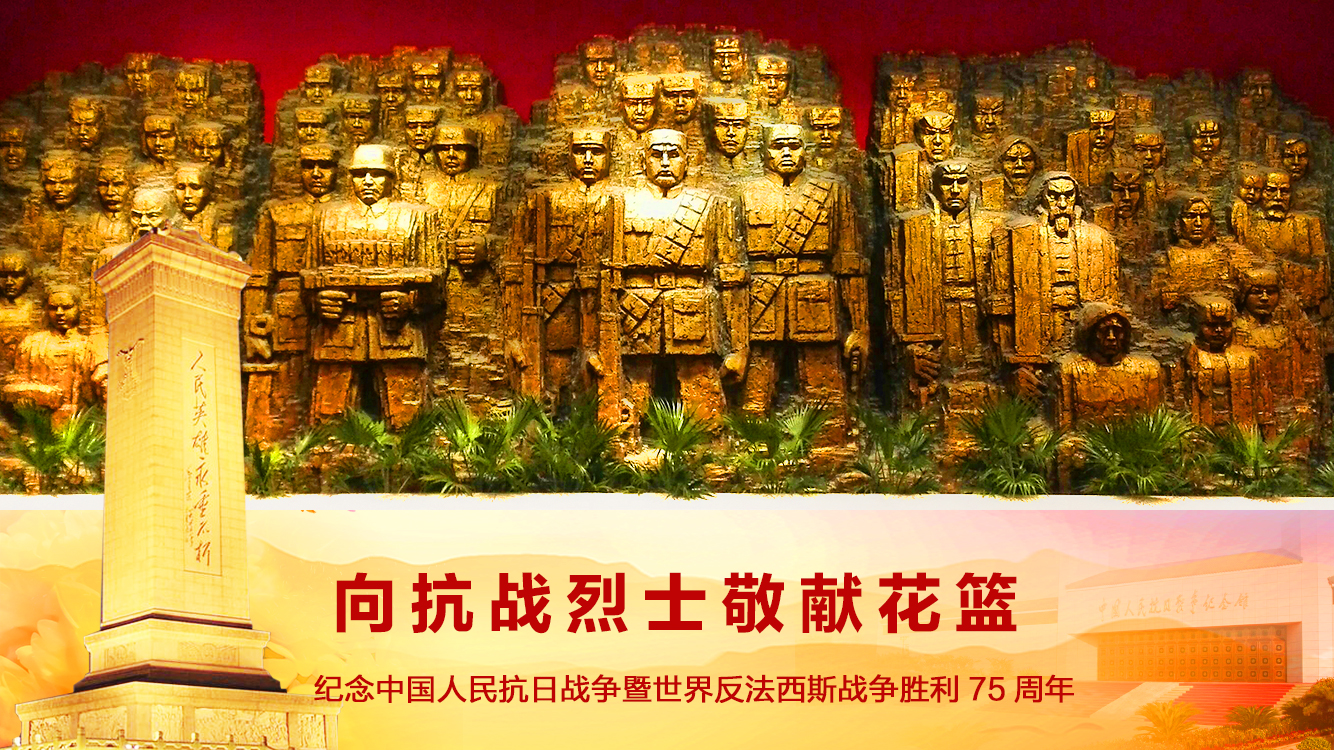
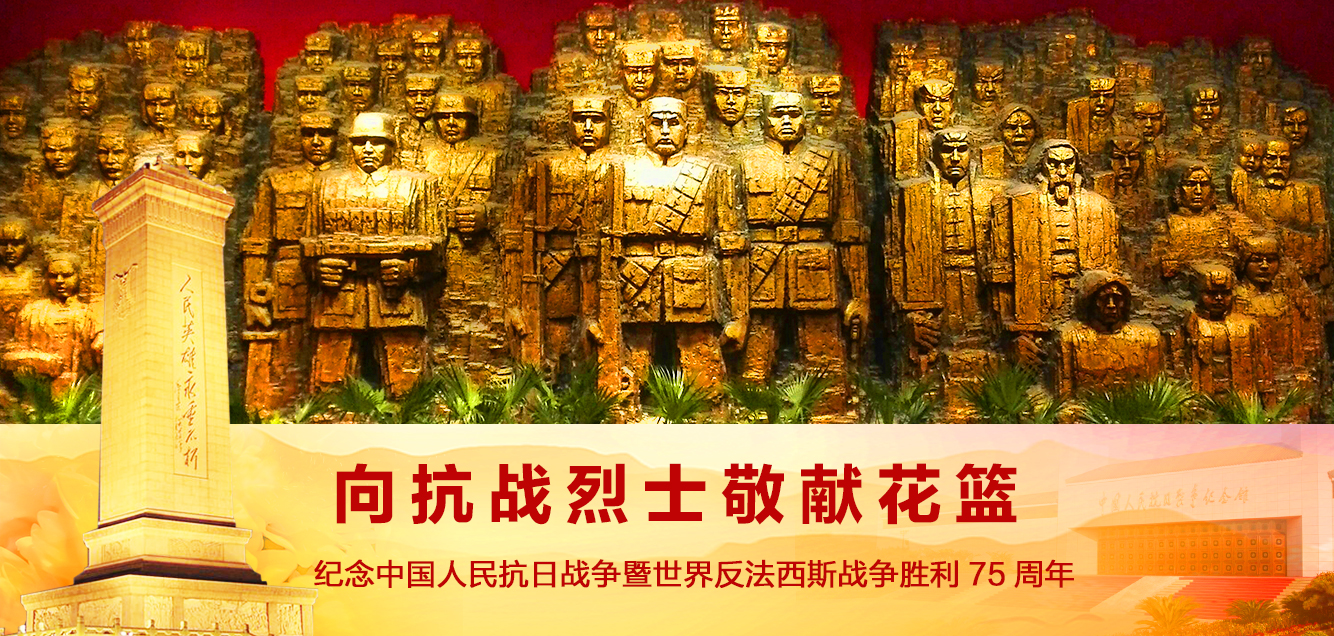
Add files via upload

diff --git a/dyw979花篮/index.html b/dyw979花篮/index.html
@@ -789,11 +789,11 @@ function SetHome(url){
         // 移动花篮
         $('.dyw979_hl .dyw979_jh .hl').on('mousedown',function(e){
             e.preventDefault();
-            var dyw980_y=e.screenY-100;
+            var dyw980_y=e.screenY-50;
             $('.dyw979_hl .dyw979_jh .lj').css('width','0');
             $(document).on('mousemove','.dyw979_jh',function(e){
                 e.preventDefault();
-                if(e.screenY-dyw980_y<100&&e.screenY-dyw980_y>-340){
+                if(e.screenY-dyw980_y<50&&e.screenY-dyw980_y>-290){
                     $('.dyw979_hl .dyw979_jh .hl').css('top',e.screenY-dyw980_y+'px')
                 }
             })
@@ -802,10 +802,10 @@ function SetHome(url){
             e.preventDefault();
             $('.dyw979_hl .dyw979_jh .lj').css('width','14px');
             $(document).off('mousemove','.dyw979_jh' )
-            if(parseInt($('.dyw979_hl .dyw979_jh .hl').css('top'))>-338 && parseInt($('.dyw979_hl .dyw979_jh .hl').css('top'))<-190){
+            if(parseInt($('.dyw979_hl .dyw979_jh .hl').css('top'))>-300 && parseInt($('.dyw979_hl .dyw979_jh .hl').css('top'))<-190){
                 $('.dyw979_tc').show()
             }else{
-                $('.dyw979_hl .dyw979_jh .hl').css('top','100px')
+                $('.dyw979_hl .dyw979_jh .hl').css('top','50px')
             }
         })
         // 返回 查看
@@ -838,10 +838,10 @@ function SetHome(url){
         // 移动花篮
         $('.dyw979_hl .dyw979_jh').on('vmousedown',function(e){
             // e.preventDefault();
-            var dyw980_y=e.screenY-100,dyw980_ydy=parseInt($('.dyw979_hl .dyw979_jh .hl').css('top'));
+            var dyw980_y=e.screenY-50,dyw980_ydy=parseInt($('.dyw979_hl .dyw979_jh .hl').css('top'));
             $('.dyw979_hl .dyw979_jh .lj').css('width','0');
             $(document).on('vmousemove','.dyw979_jh',function(e){
-            console.log(1,dyw980_ydy);
+            // console.log(1,dyw980_ydy);
                 // e.preventDefault();
                 if(e.screenY-dyw980_y<dyw980_ydy&&e.screenY-dyw980_y>-$('.dyw979_hl .dyw979_jh .lj').height()*0.8-$('.dyw979_hl .dyw979_jh .zd').height()){
                     $('.dyw979_hl .dyw979_jh .hl').css('top',e.screenY-dyw980_y+'px')
@@ -850,12 +850,12 @@ function SetHome(url){
         })
         $('.dyw979_hl').on('vmouseup',function(e){
             // e.preventDefault();
-            $('.dyw979_hl .dyw979_jh .lj').css('width','0.14rem');
+            $('.dyw979_hl .dyw979_jh .lj').css('width','0.11rem');
             $(document).off('mousemove','.dyw979_jh' )
             if(parseInt($('.dyw979_hl .dyw979_jh .hl').css('top'))>-$('.dyw979_hl .dyw979_jh .lj').height()-$('.dyw979_hl .dyw979_jh .zd').height() && parseInt($('.dyw979_hl .dyw979_jh .hl').css('top'))<-$('.dyw979_hl .dyw979_jh .lj').height()){
                 $('.dyw979_tc').show()
             }else{
-                $('.dyw979_hl .dyw979_jh .hl').css('top','1rem')
+                $('.dyw979_hl .dyw979_jh .hl').css('top','0.7rem')
             }
         })
         // 返回 查看

diff --git a/dyw979花篮/css/style.css b/dyw979花篮/css/style.css
@@ -148,40 +148,40 @@ a:hover{text-decoration: none}
 /* 主体 */
 .dyw979_hl{
     width: 1333px;
-    height: 750px;
+    height:636px;
     margin:0 auto;
 }
 /* button */
 .dyw979_hl .but{
     display: block;
-    width: 184px;
-    height: 184px;
+    width: 178px;
+    height: 178px;
     border-radius: 50%;
     margin:0 auto 0;
     background:url(img/dyw979_but.png) no-repeat center center;
     background-size: 98%;
     position: relative;
-    top: 234px;
+    top: 130px;
 }
 /* 交互 */
 .dyw979_hl .dyw979_jh{
     display: none;
 }
 .dyw979_hl .dyw979_jh .zd{
-    width: 194px;
-    height: 194px;
+    width: 190px;
+    height: 190px;
     margin:0 auto 0;
     background:url(img/dyw979_zd.png) no-repeat center center;
     position: relative;
-    top: 100px;
+    top: 50px;
 }
 .dyw979_hl .dyw979_jh .lj{
-    height: 170px;
+    height: 110px;
     width: 14px;
     margin:0 auto;
     background:url(img/dyw979_lj.png) no-repeat center center;
     position: relative;
-    top: 100px;
+    top: 50px;
 }
 .dyw979_hl .dyw979_jh .hl{
     height: 230px;
@@ -189,19 +189,19 @@ a:hover{text-decoration: none}
     margin: 0 auto;
     background:url(img/dyw979_hl.png) no-repeat center center;
     position: relative;
-    top: 100px;
+    top: 50px;
     cursor: pointer;
 }
 /* 弹窗 */
 .dyw979_tc{
     display: none;
     width: 1333px;
-    height: 752px;
+    height: 656px;
     background: url(img/dyw979_tc.png);
     position: absolute;
     top: 0;
     z-index: 1000;
-    padding-top: 126px;
+    padding-top: 108px;
 }
 .dyw979_tc .tc{
     width: 430px;
@@ -279,6 +279,9 @@ a:hover{text-decoration: none}
 
 
     /* 背景 */
+    html{
+        overflow: hidden;
+    }
 .bg_top_owner{
     background:url(img/dyw979_bg_1.jpg) no-repeat top center;
     background-size: 100%;
@@ -286,7 +289,7 @@ a:hover{text-decoration: none}
 /* 主体 */
 .dyw979_hl{
     width:13.34rem;
-    height:7.5rem;
+    height:6.36rem;
     /* 2222 */
     margin:0 auto;
 }
@@ -307,22 +310,22 @@ a:hover{text-decoration: none}
     display: none;
 }
 .dyw979_hl .dyw979_jh .zd{
-    width: 1.94rem;
-    height: 1.94rem;
+    width: 1.78rem;
+    height: 1.78rem;
     margin:0 auto 0;
     background:url(img/dyw979_zd.png) no-repeat center center;
     background-size: 100%;
     position: relative;
-    top: 1rem;
+    top: 0.5rem;
 }
 .dyw979_hl .dyw979_jh .lj{
-    height: 1.7rem;
-    width: .14rem;
+    height: 1.1rem;
+    width: .11rem;
     margin:0 auto;
     background:url(img/dyw979_lj.png) no-repeat center center;
     background-size: 100%;
     position: relative;
-    top: 1rem;
+    top: 0.5rem;
 }
 .dyw979_hl .dyw979_jh .hl{
     height:2.3rem;
@@ -338,13 +341,13 @@ a:hover{text-decoration: none}
 .dyw979_tc{
     display: none;
     width:13.33rem;
-    height: 7.52rem;
+    height:6.56rem;
     background: url(img/dyw979_tc.png);
     background-size: 100%;
     position: absolute;
     top: 0;
     z-index: 1000;
-    padding-top: 1.26rem;
+    padding-top: .66rem;
 }
 .dyw979_tc .tc{
     width: 4.3rem;
